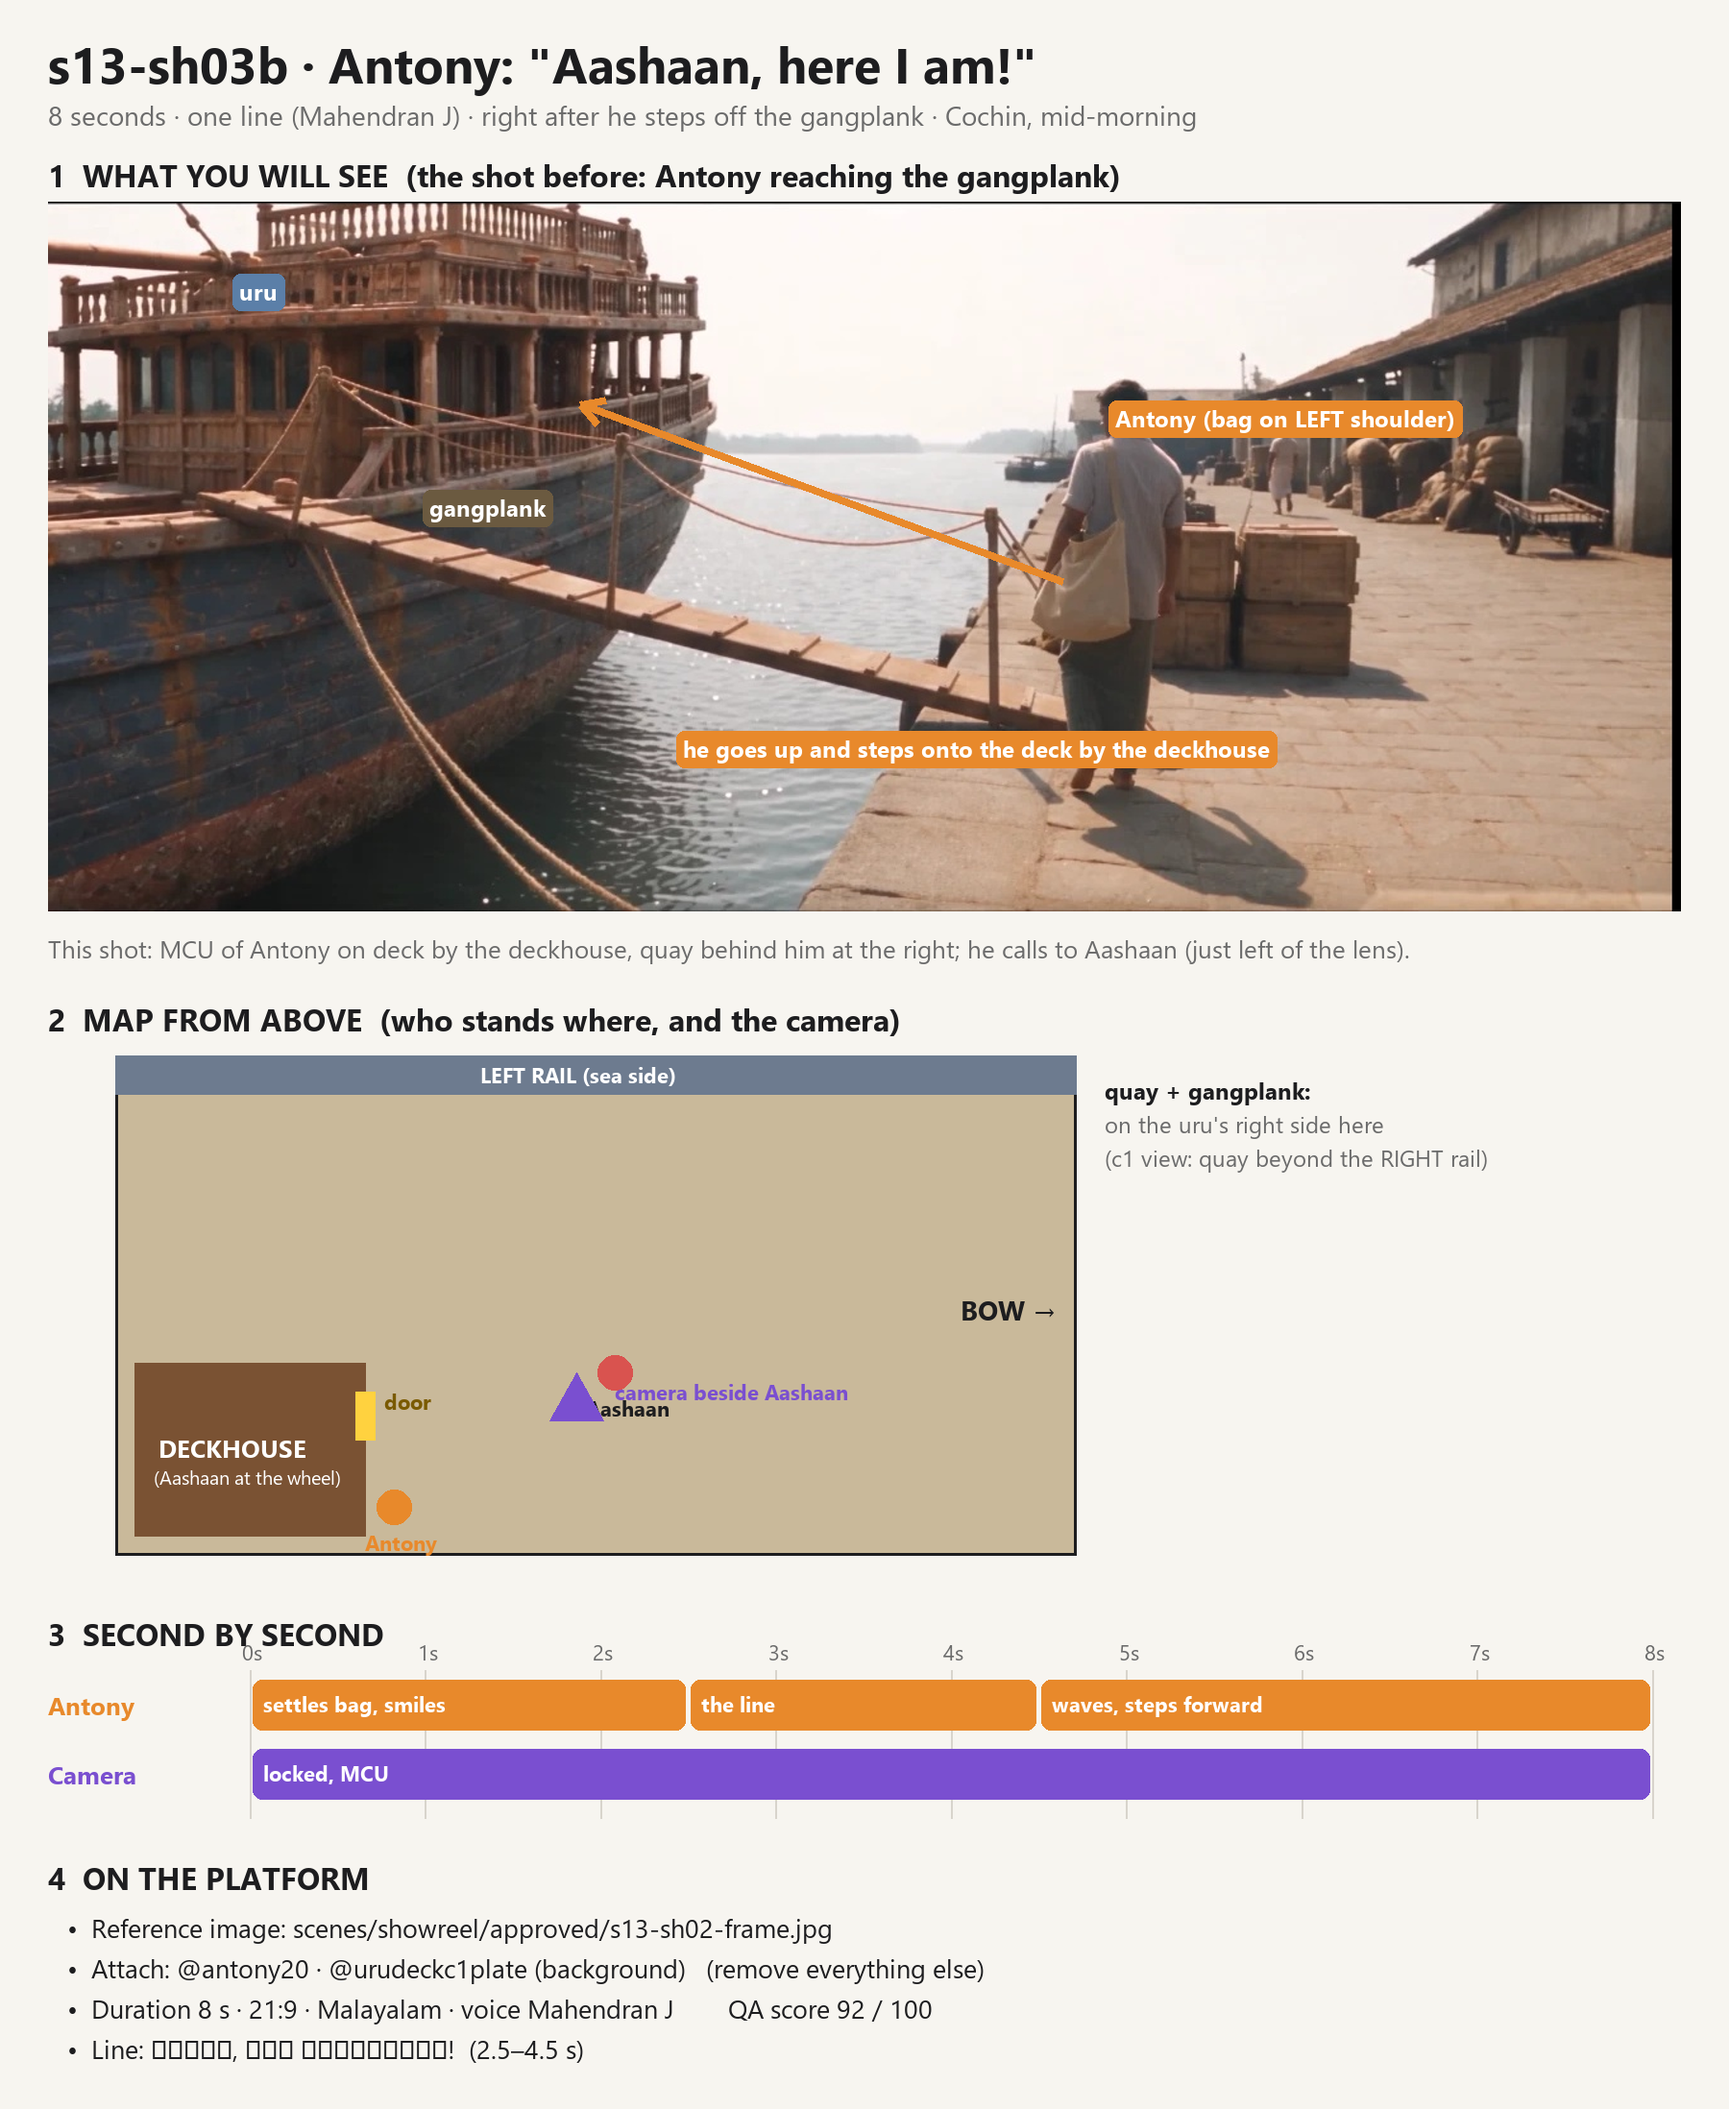
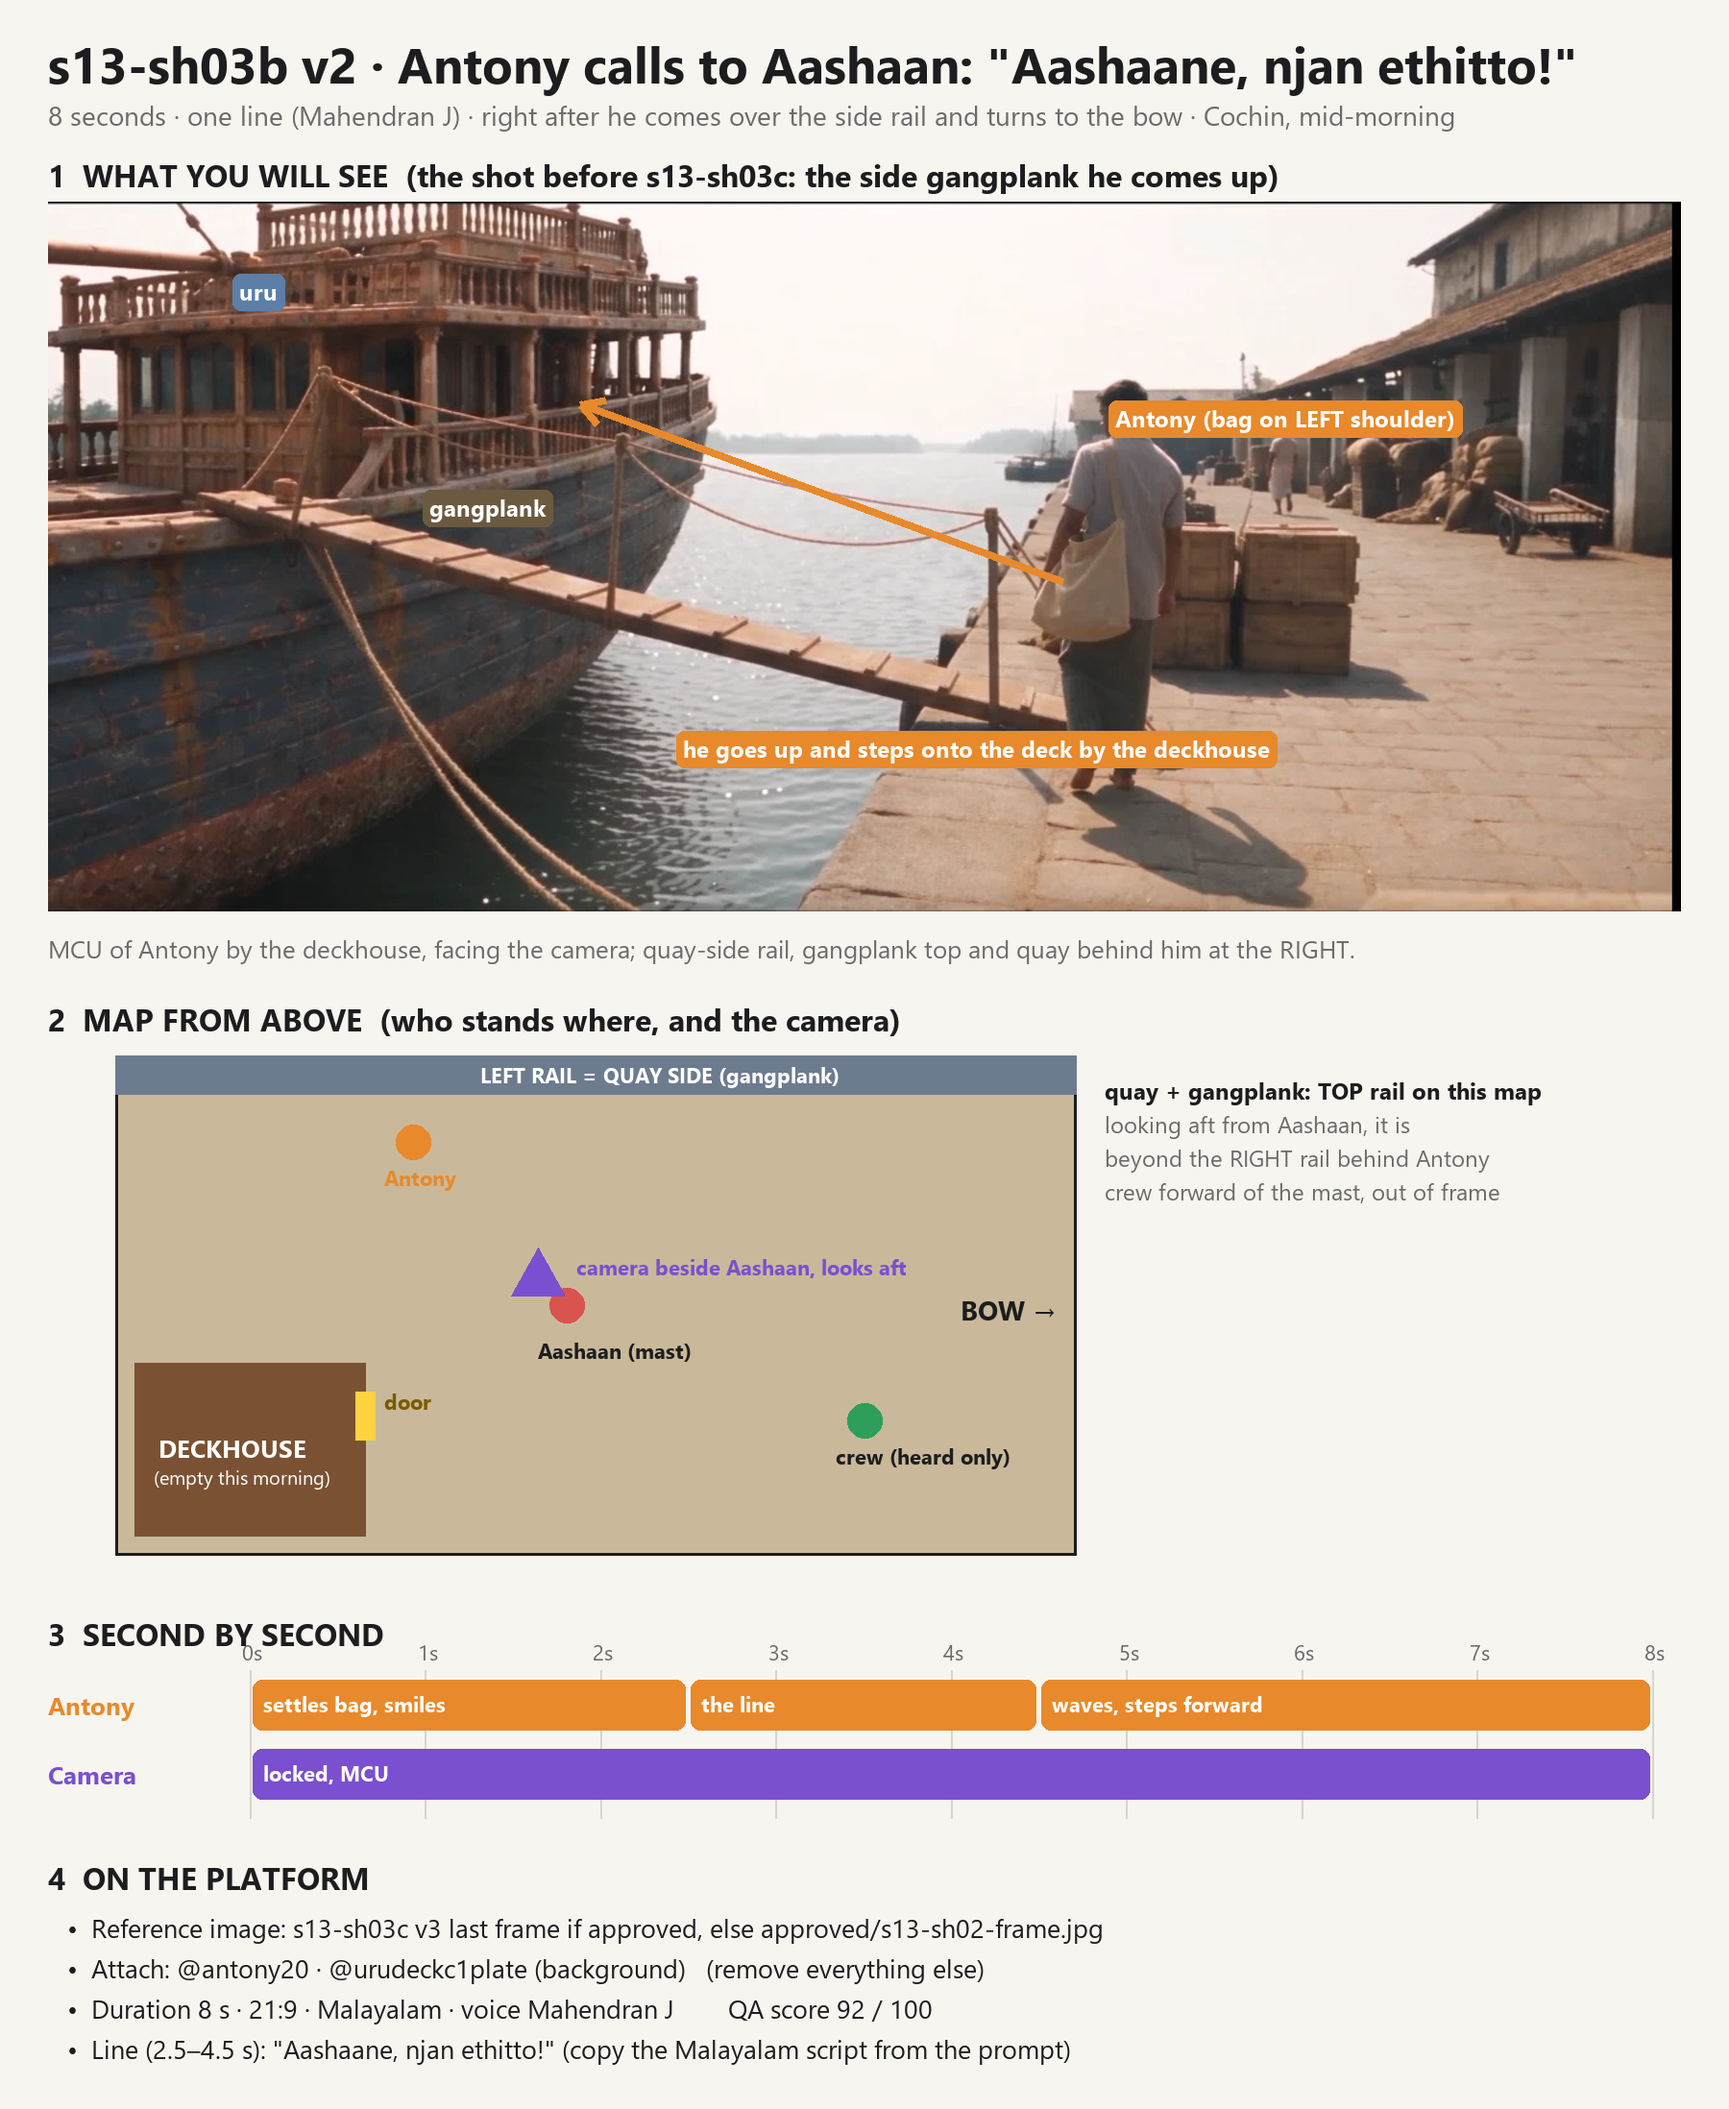
Ranjith: shot: s13-sh03b v2 (follows s13-sh03c v3: side rail, turned to the bow)

diff --git a/scenes/showreel/s13-sh03b.md b/scenes/showreel/s13-sh03b.md
@@ -1,32 +1,32 @@
-# Shot s13-sh03b · Antony: 'Aashaan, here I am!' (8 s, one line) — v1
-Status: **ready, proposal**. New beat (Ranjith, 2026-11-10) between s13-sh03 (Antony boards) and s13-sh04 (Aashaan: check the forward rope).
+# Shot s13-sh03b · Antony: 'Aashaan, here I am!' (8 s, one line) — v2
+Status: **ready, proposal**. New beat (Ranjith, 2026-11-10) between s13-sh03c (Antony comes aboard and sees the crew) and s13-sh04 (Aashaan: check the forward rope). v2 follows s13-sh03c v3: over the side rail, turned to the bow.
 Emotion: light-hearted (no tag, W6) · clear sheet `storyboards/s13-sh03b-clear.png`
 Created by: Ranjith, 2026-11-10
 Camera position: urudeck-c8-boarding (new: on deck beside Aashaan by the sacks, looking aft at Antony by the deckhouse; quay at the RIGHT)
 References: reference image = approved/s13-sh02-frame.jpg · @antony20 (full) · @urudeckc1plate (background only)
-Reference sweep (left out, and why): @antonybag: the bag is described in @antony20 (its sheet carries the bag). @aashaan: just off the left edge (only the speaker in frame). Crew: out of frame. @balan: not aboard yet.
-Follows: s13-sh03c v2 (Antony up the gangplank, sees the crew). Next: s13-sh04.
+Reference sweep (left out, and why): @antonybag: MCU, only the strap is in frame, the bag at his hip is below the frame (L50); the strap is written in the text. @aashaan: just off the left edge (only the speaker in frame). Crew: out of frame. @balan: not aboard yet.
+Follows: s13-sh03c v3 (Antony up the side gangplank, turns to the bow, sees the crew). If the sh03c take is approved, attach its last frame as the reference image instead of s13-sh02 (L122). Next: s13-sh04.
 
 ## Prompt
 ```
 SCENE
-Mid-morning, 1998, aboard the big wooden cargo uru moored at the quay in Cochin harbour. One continuous shot, moments after Antony steps off the gangplank onto the deck beside the deckhouse. He looks along the deck, spots Aashaan and calls out cheerfully in Malayalam that he has arrived. Antony is alone in the frame.
+Mid-morning, 1998, aboard the big wooden cargo uru moored at the quay in Cochin harbour. One continuous shot, seconds after Antony came over the side rail by the deckhouse and turned toward the bow. He stands where he stopped, looking forward at Aashaan at the mast, and calls out cheerfully in Malayalam that he has arrived. Antony is alone in the frame.
 SPOKEN LANGUAGE: Malayalam. Every spoken word in this video is Malayalam, the exact Malayalam text given in quotes in AUDIO. No English words are spoken.
 
 ACTIVE REFERENCES
 Reference image (0.0s–8.0s): the quay frame of s13-sh02 (Antony walking to the gangplank): the same morning light, the same clothes and bag.
-@antony20 (0.0s–8.0s, full): Antony, 24, lean, sun-browned, short black hair combed neat; short-sleeve lavender-grey and white striped shirt, grey-green checked mundu, thin silver chain; a faded beige canvas cloth bag on one long strap over his LEFT shoulder, hanging at his left hip. Native Kollam-coast Malayalam speaker; warm, slightly hoarse young voice. 100% matches the reference.
-@urudeckc1plate (0.0s–8.0s, background only): only what is behind Antony: the carved wooden deckhouse with its turned railings at the left, the blue-grey rail, and beyond it the stone quay and old tiled warehouses in the haze. 100% matches the reference.
+@antony20 (0.0s–8.0s, full): Antony, 24, lean, sun-browned, short black hair combed neat; short-sleeve lavender-grey and white striped shirt, grey-green checked mundu, thin silver chain; the canvas strap of his bag over his LEFT shoulder only, not across his body. Native Kollam-coast Malayalam speaker; warm, slightly hoarse young voice. 100% matches the reference.
+@urudeckc1plate (0.0s–8.0s, background only): only what is behind Antony: the carved wooden deckhouse with its turned railings, the blue-grey rail at the right, and beyond it the stone quay, the gangplank's top and old tiled warehouses in the haze. 100% matches the reference.
 
 CONTINUITY (carried over from the previous shots)
-Seconds after he stepped off the gangplank: Antony on the deck beside the deckhouse, at the rail on the quay side, the bag strap on his LEFT shoulder, same clothes. Aashaan stands forward by the lashed sacks near the mast, about four metres away, out of frame. The crew are at work around the deck, out of frame. Hazy mid-morning sun from the left. Balan has not arrived yet.
+Seconds after he came over the side rail and turned toward the bow: Antony on the deck just forward of the deckhouse, near the quay-side rail, facing forward, the bag strap on his LEFT shoulder, barefoot, same clothes. Aashaan stands forward by the lashed sacks near the mast, about four metres away, out of frame. The crew are at work forward of the mast, behind the camera, out of frame; nobody stands between Antony and the deckhouse. Hazy mid-morning sun from the left. Balan has not arrived yet.
 
 THE DECK (0.0s–8.0s)
-The camera stands on the deck at Antony's eye height, beside Aashaan's head, looking aft at Antony. Only Antony is in frame. Behind him: the carved deckhouse at the left, the rail, the quay and warehouses beyond in the haze at the right. No lettering.
+The camera stands on the deck at Antony's eye height, beside Aashaan's head, looking aft at Antony. Only Antony is in frame. Behind him: the carved deckhouse; the quay-side rail at the right with the gangplank's top and the stone quay and warehouses beyond it in the haze. Nobody else behind him. No lettering.
 EYELINE: Aashaan is just off the left edge of the frame; the camera is beside his head. Antony looks at Aashaan's face about 20 degrees left of the lens: not right, not down, never into the lens.
 
 FIRST FRAME
-Antony just on the deck, settling the bag strap on his left shoulder, already looking toward Aashaan just left of the lens, a smile starting.
+Antony standing just forward of the deckhouse, facing the camera, his hand on the bag strap at his left shoulder, already looking at Aashaan just left of the lens, a smile starting.
 
 FORMAT MODE
 One continuous shot; the camera does not cut on its own. The video runs the full 8 seconds.
@@ -80,12 +80,15 @@ When @antony20 says "ആശാനേ, ഞാൻ എത്തിട്ടോ!" le
 ## Generation results
 
 ## History
+- v2 (2026-11-10): follows s13-sh03c v3: Antony already turned to the bow; quay and gangplank at the right of this aft view; crew behind the camera; strap only (L127, L128). Checked against s13-sh01 (bow toward the view), s13-sh02 (side gangplank, bag), s13-sh04 frame (aft view, deckhouse) and the s13-sh03c v2 take.
 - v1 (2026-11-10): Ranjith's line, typed by him: ആശാനേ, ഞാൻ എത്തിട്ടോ (Aashaan, I'm here!).
 
 ## Continuity check
 | Element | Previous | This shot |
 |---|---|---|
-| Antony | stepped off the gangplank by the deckhouse (s13-sh03), bag on LEFT shoulder | same place, calls to Aashaan |
+| Antony | over the side rail by the deckhouse, turned to the bow (s13-sh03c v3), bag on LEFT shoulder | same place, facing forward, calls to Aashaan |
+| Quay | beyond the LEFT rail looking to the bow (s13-sh03c v3) | beyond the RIGHT rail looking aft, gangplank top at that rail |
+| Crew | forward of the mast (s13-sh03c v3) | behind the camera, heard only |
 | Aashaan | at the sacks by the mast (s13-sh04 frame) | ~4 m forward, off the left edge |
 | Light | hazy mid-morning, sun from the left | same |
 | Balan | arrives later (s13-sh05b) | not aboard |
